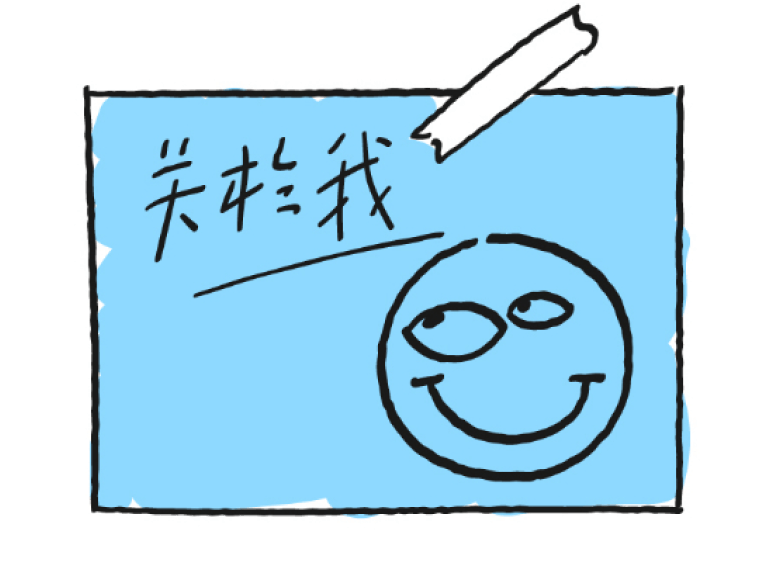
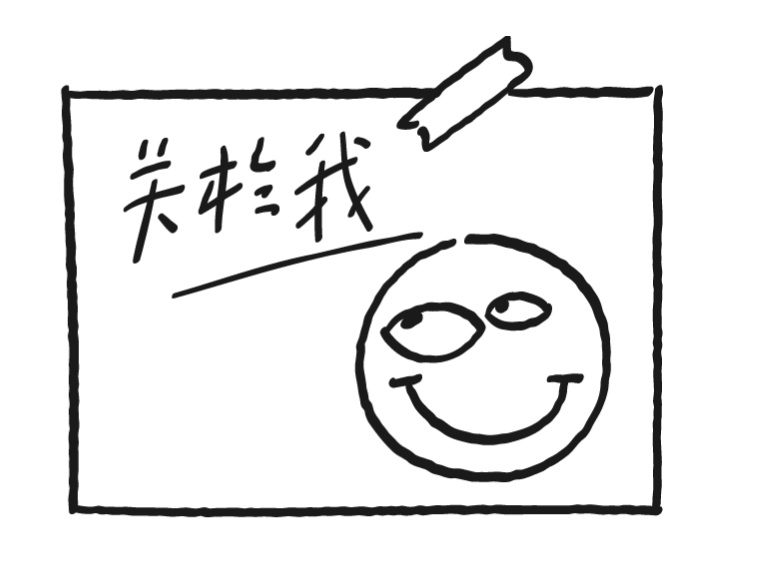
1.添加 google analytics  2.替换首页导航图片 3.更新第一篇文章

diff --git a/docs/.vuepress/.temp/internal/routes.js b/docs/.vuepress/.temp/internal/routes.js
@@ -4,16 +4,16 @@ export const routes = Object.fromEntries([
   ["/", { loader: () => import(/* webpackChunkName: "index.html" */"/Users/yesusu/Desktop/work-space/susu-blog/docs/.vuepress/.temp/pages/index.html.js"), meta: {"title":"耶稣稣的博客"} }],
   ["/about/", { loader: () => import(/* webpackChunkName: "about_index.html" */"/Users/yesusu/Desktop/work-space/susu-blog/docs/.vuepress/.temp/pages/about/index.html.js"), meta: {"_blog":{"author":"","title":"关于我 | 耶稣稣的博客","heroImage":"","description":"这是关于我的描述","date":null,"excerpt":""},"title":"关于我 | 耶稣稣的博客"} }],
   ["/projects/test1/", { loader: () => import(/* webpackChunkName: "projects_test1_index.html" */"/Users/yesusu/Desktop/work-space/susu-blog/docs/.vuepress/.temp/pages/projects/test1/index.html.js"), meta: {"_blog":{"author":"","title":"这是项目test1的标题","heroImage":"https://p3-pc-sign.douyinpic.com/tos-cn-i-0813/cb26932b567b4da5b5c8475fb1a02e7c~tplv-dy-aweme-images-v2:3000:3000:q75.webp?biz_tag=aweme_images&from=327834062&lk3s=138a59ce&s=PackSourceEnum_SEARCH&sc=image&se=false&x-expires=1739905200&x-signature=N%2BogLLZ0hIWCr2eFIHhCbMw3EyE%3D","description":"这是test1的描述，这是test1的描述这是test1的描述这是test1的描述这是test1的描述这是test1的描述这是test1的描述这是test1的描述这是test1的描述这是test1的描述这是test1的描述这是test1的描述这是test1的描述","date":"2025-10-03T00:00:00.000Z","excerpt":""},"title":"这是项目test1的标题"} }],
-  ["/projects/test2/", { loader: () => import(/* webpackChunkName: "projects_test2_index.html" */"/Users/yesusu/Desktop/work-space/susu-blog/docs/.vuepress/.temp/pages/projects/test2/index.html.js"), meta: {"_blog":{"author":"","title":"这是项目test2的标题","heroImage":"https://p3-pc-sign.douyinpic.com/tos-cn-i-0813/cb26932b567b4da5b5c8475fb1a02e7c~tplv-dy-aweme-images-v2:3000:3000:q75.webp?biz_tag=aweme_images&from=327834062&lk3s=138a59ce&s=PackSourceEnum_SEARCH&sc=image&se=false&x-expires=1739905200&x-signature=N%2BogLLZ0hIWCr2eFIHhCbMw3EyE%3D","description":"这是test2的的描述","date":"2025-10-02T00:00:00.000Z","excerpt":""},"title":"这是项目test2的标题"} }],
-  ["/projects/test4/", { loader: () => import(/* webpackChunkName: "projects_test4_index.html" */"/Users/yesusu/Desktop/work-space/susu-blog/docs/.vuepress/.temp/pages/projects/test4/index.html.js"), meta: {"_blog":{"author":"","title":"这是项目test4的标题","heroImage":"https://p3-pc-sign.douyinpic.com/tos-cn-i-0813/cb26932b567b4da5b5c8475fb1a02e7c~tplv-dy-aweme-images-v2:3000:3000:q75.webp?biz_tag=aweme_images&from=327834062&lk3s=138a59ce&s=PackSourceEnum_SEARCH&sc=image&se=false&x-expires=1739905200&x-signature=N%2BogLLZ0hIWCr2eFIHhCbMw3EyE%3D","description":"这是test3的的描述","date":"2025-09-30T00:00:00.000Z","excerpt":""},"title":"这是项目test4的标题"} }],
   ["/projects/test5/", { loader: () => import(/* webpackChunkName: "projects_test5_index.html" */"/Users/yesusu/Desktop/work-space/susu-blog/docs/.vuepress/.temp/pages/projects/test5/index.html.js"), meta: {"_blog":{"author":"","title":"这是项目test5的标题","heroImage":"https://p3-pc-sign.douyinpic.com/tos-cn-i-0813/cb26932b567b4da5b5c8475fb1a02e7c~tplv-dy-aweme-images-v2:3000:3000:q75.webp?biz_tag=aweme_images&from=327834062&lk3s=138a59ce&s=PackSourceEnum_SEARCH&sc=image&se=false&x-expires=1739905200&x-signature=N%2BogLLZ0hIWCr2eFIHhCbMw3EyE%3D","description":"这是test2的的描述","date":"2025-09-27T00:00:00.000Z","excerpt":""},"title":"这是项目test5的标题"} }],
   ["/projects/test3/", { loader: () => import(/* webpackChunkName: "projects_test3_index.html" */"/Users/yesusu/Desktop/work-space/susu-blog/docs/.vuepress/.temp/pages/projects/test3/index.html.js"), meta: {"_blog":{"author":"","title":"这是项目test3的标题","heroImage":"https://p3-pc-sign.douyinpic.com/tos-cn-i-0813/cb26932b567b4da5b5c8475fb1a02e7c~tplv-dy-aweme-images-v2:3000:3000:q75.webp?biz_tag=aweme_images&from=327834062&lk3s=138a59ce&s=PackSourceEnum_SEARCH&sc=image&se=false&x-expires=1739905200&x-signature=N%2BogLLZ0hIWCr2eFIHhCbMw3EyE%3D","description":"这是test3的的描述","date":"2025-10-01T00:00:00.000Z","excerpt":""},"title":"这是项目test3的标题"} }],
-  ["/articles/test1/", { loader: () => import(/* webpackChunkName: "articles_test1_index.html" */"/Users/yesusu/Desktop/work-space/susu-blog/docs/.vuepress/.temp/pages/articles/test1/index.html.js"), meta: {"_blog":{"author":"yesusu1","title":"这是test1的标题","heroImage":"https://steamuserimages-a.akamaihd.net/ugc/2362769341371317445/BD8E2AD582B9B24D516FD1B5D03E05C81A0509E9/?imw=5000&imh=5000&ima=fit&impolicy=Letterbox&imcolor=%23000000&letterbox=false","description":"这是test1的描述，这是test1的描述这是test1的描述这是test1的描述这是test1的描述这是test1的描述这是test1的描述这是test1的描述这是test1的描述这是test1的描述这是test1的描述这是test1的描述这是test1的描述","date":"2025-10-03T00:00:00.000Z","excerpt":""},"title":"这是test1的标题"} }],
+  ["/projects/test4/", { loader: () => import(/* webpackChunkName: "projects_test4_index.html" */"/Users/yesusu/Desktop/work-space/susu-blog/docs/.vuepress/.temp/pages/projects/test4/index.html.js"), meta: {"_blog":{"author":"","title":"这是项目test4的标题","heroImage":"https://p3-pc-sign.douyinpic.com/tos-cn-i-0813/cb26932b567b4da5b5c8475fb1a02e7c~tplv-dy-aweme-images-v2:3000:3000:q75.webp?biz_tag=aweme_images&from=327834062&lk3s=138a59ce&s=PackSourceEnum_SEARCH&sc=image&se=false&x-expires=1739905200&x-signature=N%2BogLLZ0hIWCr2eFIHhCbMw3EyE%3D","description":"这是test3的的描述","date":"2025-09-30T00:00:00.000Z","excerpt":""},"title":"这是项目test4的标题"} }],
+  ["/articles/colors1/", { loader: () => import(/* webpackChunkName: "articles_colors1_index.html" */"/Users/yesusu/Desktop/work-space/susu-blog/docs/.vuepress/.temp/pages/articles/colors1/index.html.js"), meta: {"_blog":{"author":"","title":"产品配色那些事1-学会色彩管理","heroImage":"https://image.yesusu.top/PicGo/color-01.png","description":"本系列文章共分为三个篇章：1.《学会色彩管理》2.《了解选色逻辑》3.《我的配色实践》，笔者将通过三个篇章向大家介绍一些产品配色的基础知识和方法，希望配色时我们有明确的思路和逻辑，帮助我们输出更成熟的配色方案。","date":"2025-02-17T00:00:00.000Z","excerpt":""},"title":"产品配色那些事1-学会色彩管理"} }],
   ["/articles/test3/", { loader: () => import(/* webpackChunkName: "articles_test3_index.html" */"/Users/yesusu/Desktop/work-space/susu-blog/docs/.vuepress/.temp/pages/articles/test3/index.html.js"), meta: {"_blog":{"author":"yesusu","title":"这是test3的标题","heroImage":"https://steamuserimages-a.akamaihd.net/ugc/2362769341371317445/BD8E2AD582B9B24D516FD1B5D03E05C81A0509E9/?imw=5000&imh=5000&ima=fit&impolicy=Letterbox&imcolor=%23000000&letterbox=false","description":"这是test3的的描述","date":"2025-10-01T00:00:00.000Z","excerpt":""},"title":"这是test3的标题"} }],
+  ["/articles/test2/", { loader: () => import(/* webpackChunkName: "articles_test2_index.html" */"/Users/yesusu/Desktop/work-space/susu-blog/docs/.vuepress/.temp/pages/articles/test2/index.html.js"), meta: {"_blog":{"author":"yesusu","title":"这是test2的标题","heroImage":"https://steamuserimages-a.akamaihd.net/ugc/2362769341371317445/BD8E2AD582B9B24D516FD1B5D03E05C81A0509E9/?imw=5000&imh=5000&ima=fit&impolicy=Letterbox&imcolor=%23000000&letterbox=false","description":"这是test2的的描述","date":"2025-10-02T00:00:00.000Z","excerpt":""},"title":"这是test2的标题"} }],
   ["/articles/test4/", { loader: () => import(/* webpackChunkName: "articles_test4_index.html" */"/Users/yesusu/Desktop/work-space/susu-blog/docs/.vuepress/.temp/pages/articles/test4/index.html.js"), meta: {"_blog":{"author":"","title":"这是项目test4的标题","heroImage":"https://p3-pc-sign.douyinpic.com/tos-cn-i-0813/cb26932b567b4da5b5c8475fb1a02e7c~tplv-dy-aweme-images-v2:3000:3000:q75.webp?biz_tag=aweme_images&from=327834062&lk3s=138a59ce&s=PackSourceEnum_SEARCH&sc=image&se=false&x-expires=1739905200&x-signature=N%2BogLLZ0hIWCr2eFIHhCbMw3EyE%3D","description":"这是test3的的描述","date":"2025-09-30T00:00:00.000Z","excerpt":""},"title":"这是项目test4的标题"} }],
   ["/articles/test5/", { loader: () => import(/* webpackChunkName: "articles_test5_index.html" */"/Users/yesusu/Desktop/work-space/susu-blog/docs/.vuepress/.temp/pages/articles/test5/index.html.js"), meta: {"_blog":{"author":"","title":"这是项目test5的标题","heroImage":"https://p3-pc-sign.douyinpic.com/tos-cn-i-0813/cb26932b567b4da5b5c8475fb1a02e7c~tplv-dy-aweme-images-v2:3000:3000:q75.webp?biz_tag=aweme_images&from=327834062&lk3s=138a59ce&s=PackSourceEnum_SEARCH&sc=image&se=false&x-expires=1739905200&x-signature=N%2BogLLZ0hIWCr2eFIHhCbMw3EyE%3D","description":"这是test2的的描述","date":"2025-09-27T00:00:00.000Z","excerpt":""},"title":"这是项目test5的标题"} }],
   ["/articles/test6/", { loader: () => import(/* webpackChunkName: "articles_test6_index.html" */"/Users/yesusu/Desktop/work-space/susu-blog/docs/.vuepress/.temp/pages/articles/test6/index.html.js"), meta: {"_blog":{"author":"","title":"这是项目test6的标题","heroImage":"https://p3-pc-sign.douyinpic.com/tos-cn-i-0813/cb26932b567b4da5b5c8475fb1a02e7c~tplv-dy-aweme-images-v2:3000:3000:q75.webp?biz_tag=aweme_images&from=327834062&lk3s=138a59ce&s=PackSourceEnum_SEARCH&sc=image&se=false&x-expires=1739905200&x-signature=N%2BogLLZ0hIWCr2eFIHhCbMw3EyE%3D","description":"这是test1的描述，这是test1的描述这是test1的描述这是test1的描述这是test1的描述这是test1的描述这是test1的描述这是test1的描述这是test1的描述这是test1的描述这是test1的描述这是test1的描述这是test1的描述","date":"2025-09-25T00:00:00.000Z","excerpt":""},"title":"这是项目test6的标题"} }],
-  ["/articles/test2/", { loader: () => import(/* webpackChunkName: "articles_test2_index.html" */"/Users/yesusu/Desktop/work-space/susu-blog/docs/.vuepress/.temp/pages/articles/test2/index.html.js"), meta: {"_blog":{"author":"yesusu","title":"这是test2的标题","heroImage":"https://steamuserimages-a.akamaihd.net/ugc/2362769341371317445/BD8E2AD582B9B24D516FD1B5D03E05C81A0509E9/?imw=5000&imh=5000&ima=fit&impolicy=Letterbox&imcolor=%23000000&letterbox=false","description":"这是test2的的描述","date":"2025-10-02T00:00:00.000Z","excerpt":""},"title":"这是test2的标题"} }],
+  ["/projects/test2/", { loader: () => import(/* webpackChunkName: "projects_test2_index.html" */"/Users/yesusu/Desktop/work-space/susu-blog/docs/.vuepress/.temp/pages/projects/test2/index.html.js"), meta: {"_blog":{"author":"","title":"这是项目test2的标题","heroImage":"https://p3-pc-sign.douyinpic.com/tos-cn-i-0813/cb26932b567b4da5b5c8475fb1a02e7c~tplv-dy-aweme-images-v2:3000:3000:q75.webp?biz_tag=aweme_images&from=327834062&lk3s=138a59ce&s=PackSourceEnum_SEARCH&sc=image&se=false&x-expires=1739905200&x-signature=N%2BogLLZ0hIWCr2eFIHhCbMw3EyE%3D","description":"这是test2的的描述","date":"2025-10-02T00:00:00.000Z","excerpt":""},"title":"这是项目test2的标题"} }],
   ["/404.html", { loader: () => import(/* webpackChunkName: "404.html" */"/Users/yesusu/Desktop/work-space/susu-blog/docs/.vuepress/.temp/pages/404.html.js"), meta: {"title":""} }],
   ["/articles/", { loader: () => import(/* webpackChunkName: "articles_index.html" */"/Users/yesusu/Desktop/work-space/susu-blog/docs/.vuepress/.temp/pages/articles/index.html.js"), meta: {"title":"文章 | 耶稣稣的博客"} }],
   ["/projects/", { loader: () => import(/* webpackChunkName: "projects_index.html" */"/Users/yesusu/Desktop/work-space/susu-blog/docs/.vuepress/.temp/pages/projects/index.html.js"), meta: {"title":"项目 | 耶稣稣的博客"} }],

diff --git a/docs/.vuepress/.temp/pages/articles/colors1/index.html.vue b/docs/.vuepress/.temp/pages/articles/colors1/index.html.vue
@@ -1,0 +1,64 @@
+<template><div><h1>产品配色那些事1-学会色彩管理</h1>
+<ReadingTime/><!-- 发布于2031-09-12 -->
+<p>本系列文章共分为三个篇章：1.《学会色彩管理》2.《了解选色逻辑》3.《我的配色实践》，笔者将通过三个篇章向大家介绍一些产品配色的基础知识和方法，希望配色时我们有明确的思路和逻辑，帮助我们输出更成熟的配色方案。正式聊产品配色之前，笔者深感有必要专门花一章先来说说“色彩管理”。工作中大家时常会发现设计稿与实际开发的界面色彩不一致，设计稿鲜亮动人，实际界面确色彩暗淡，效果差强人意。导致这个问题的原因便是没有做好色彩管理，要想解决这个问题我们必须先来了解下色彩管理的基础知识。</p>
+<h3>一、色彩空间与色域</h3>
+<p>色彩空间可以简单理解为在人眼所能识别的色彩范围内划定的某一区域，其目的是为了不同设备和介质可以在统一的色彩区域内显示颜色。如设计师耳熟能详的 SRGB，它是惠普和微软公司为显示器和打印机显示统一色彩而划定的色彩区域，我们也称之为 SRGB 色彩空间。色域更多是指这一色彩区域的范围大小，如我们会经常描述某一显示器色域大小为 90%SRGB 或 100%SRGB，意思就是此显示器可以显示 SRGB 色彩空间中 90%或 100%的颜色。不同色彩空间覆盖的色彩区域也存在着大小差异，如 Adobe SRGB 比 SRGB 覆盖的区域大 35%左右，更大的色彩区域表示可以显示更丰富的色彩。</p>
+<p>当前常见的色彩空间有 NTSC、SRGB、Adobe RGB、DCI-P3 和 Display P3，之所以会出现不同色彩空间是因为技术发展和行业需求变化的原因，以下会对这些色彩空间进行简单介绍：</p>
+<h4>1. NTSC</h4>
+<p>上世纪 50 年代彩色电视技术在美国趋于成熟，为了制作标准的彩色电视节目，美国电视委员会制定了彩色电视广播标准（NTSC），其中建立的色彩空间被称为 NTCS 色彩空间。当前 NTSC 色彩空间已经不再使用，更多出现在描述显示设备的参数上，例如我们购买显示器时经常看到色域支持 72%NTSC 这样的描述。</p>
+<p><img src="https://image.yesusu.top/PicGo/color1-02.png" alt=""></p>
+<h4>2. SRGB</h4>
+<p>SRGB 色彩空间是 1996 年惠普和微软开发完成的，其目的是为了建立一种用于显示器、打印机和互联网的通用色彩空间，也是当前主流使用的色彩空间，如 windows 系统默认使用 SRGB，浏览器上我们看到的所有图片和色彩也都是基于 SRGB 渲染的。</p>
+<p><img src="https://image.yesusu.top/PicGo/color1-03.png" alt=""></p>
+<h4>3. Adobe RGB</h4>
+<p>SRGB 是显示器、打印机和互联网的通用色彩空间，但是在彩色印刷行业中，SRGB 覆盖的色域范围比较小，部份色彩在显示设备中不能很好的显示。所以 1998 年 Adobe 公司建立了 Adobe RGB 色彩空间，旨在使计算机显示设备囊括更多的颜色满足印刷行业的需求。</p>
+<p><img src="https://image.yesusu.top/PicGo/color1-04.png" alt=""></p>
+<h4>4. DCI-P3 和 Display P3</h4>
+<p>DCI-P3 是 2005 年美国电影行业推出的一种色彩空间，是数字电影播放设备的色彩标准之一，它的色域面积比 SRGB 大了 25%。2015 年苹果公司推出了广色域屏幕的 iMac 产品，使用了全新的色彩空间，并称之为 Display P3，两种 P3 色彩空间在色域大小上没有区别，只是在一些调教参数上存在差异。</p>
+<p><img src="https://image.yesusu.top/PicGo/color1-05.png" alt=""></p>
+<h3>二、理解色彩管理的逻辑</h3>
+<p>通过以上了解，我们可以尝试回答开篇的问题，为什么会出现实际界面与设计稿色彩不一致的情况？简单来说就是界面显示设备与设计稿显示设备色彩管理不一致导致的。如我们使用苹果电脑制作设计稿，其默认使用的色彩空间是 Display P3，而实际界面的显示设备支持的色彩空间是 SRGB，因为 Display P3 的色域范围远大于 SRGB，这就导致部分颜色无法在 SRGB 的设备上正常显示，所以我们看到的界面和设计稿是存在差异的。以上我们可以发现正确的色彩管理不关乎使用哪种色彩空间，而是整个色彩管理链路是否统一？上述例子，如果实际显示设备支持的是 Display P3 色彩空间，那么你将看到和设计稿完全一致的色彩。</p>
+<p>要做到整个色彩管理链路统一，我们需要清楚了解所有环节，以下将通过图示进行说明：</p>
+<p><img src="https://image.yesusu.top/PicGo/color1-06.png" alt=""></p>
+<ol>
+<li>输出屏幕：了解输出屏幕支持什么样的色彩空间，如苹果的显示屏幕可以覆盖到 100%Display P3，其他显示设备在购买时也会有相关参数描述。</li>
+<li>系统设置：不同系统默认色彩空间可能不同，如 MacOS 默认 Display P3，Windows 默认 SRGB。系统色彩空间也支持不同配置，例如可以将 MacOS 的色彩空间更改为 SRGB。</li>
+<li>制图软件：所有制图软件均可选择不同色彩空间进行工作，不同之处在于系统设置针对整个系统，制图软件只针对制图显示。</li>
+<li>终端屏幕：明确终端屏幕支持什么样的色彩空间，因为最终的设计稿是在终端屏幕上呈现的。</li>
+</ol>
+<p>色彩管理链路是否统一，即以上环节是否使用了统一的色彩空间？而选择什么样的色彩空间需根据终端显示设备决定。笔者调研了不同显示设备色彩空间的支持情况，显示器行业的情况较为复杂，不同厂商不同产品线的支持不尽相同，有 72%NTSC、99%SRGB、90%DCI_P3 等等。安卓阵营情况较好，大部分中高端产品可以支持 100%DCI-P3，部分低端产品支持 72%NTSC 或 100%SRGB。苹果阵营由于自身产品的优势，自 2016 年全线产品开始支持 100%Display P3。</p>
+<p>面对这复杂的情况，我们应该选取什么色彩空间呢？笔者根据实际显示场景给到以下建议：</p>
+<p><img src="https://image.yesusu.top/PicGo/color1-07.png" alt=""></p>
+<h4>1. 浏览器</h4>
+<p>如果你的设计最终在浏览器上显示（如网页设计），那么可以选择 SRGB，上文有提到 SRGB 作为互联网通用的色彩空间，浏览器上的所有色彩都是基于 SRGB 渲染的。</p>
+<h4>2. Windows</h4>
+<p>如果你的设计最终在 Windows 上显示，也可以选择 SRGB 作为工作色彩空间，因为 Windows 默认的色彩空间是 SRGB。</p>
+<h4>3. 安卓设备</h4>
+<p>安卓设备的色域支持情况略显复杂，为了覆盖到不同设备，建议使用 SRGB 作为工作色彩空间。</p>
+<h4>4. 苹果设备</h4>
+<p>苹果设备均支持 100%Display P3，如果你是在为 IOS 和 MacOS 做设计，那么直接选择 Display P3 即可。</p>
+<p>需要注意的是设计项目经常会覆盖多端，为了各端显示统一的色彩，色彩空间的选择可向下兼容。</p>
+<h3>三. 如何进行软件设置</h3>
+<h4>1. Sketch</h4>
+<p>Sketch 为我们提供了两种色彩管理方式：</p>
+<p>①全局预设：</p>
+<p>可在 Sketch 的 Preferences 中找到 Canvas 选项，然后在 Color Profile 中选择要使用的色彩空间，设置后我们新建的所有文件都将采用新的色彩空间。</p>
+<p><img src="https://image.yesusu.top/PicGo/color1-08.png" alt=""></p>
+<p>②文件设置：</p>
+<p>可在 Sketch 的 File 菜单中找到 Document Setting 选项，点击后在 Color Profile 中选择要使用的色彩空间，该设置只影响当前文件。</p>
+<p><img src="https://image.yesusu.top/PicGo/color1-09.png" alt=""></p>
+<p>需要注意的是当我们打开 Color Profile 下拉框后，除 SRGB 和 Display P3 选项外，还有一个叫做 Unmanaged 的选项，翻译过来的意思是无托管，选择该选项即为使用系统色彩管理方案。如需要将工作色彩空间调整为 SRGB，我们可以直接在 Color Profile 下拉框中选择 SRGB，也可以选择 Unmanaged，然后将系统色彩管理方案设置为 SRGB 即可。</p>
+<h4>2. Figma</h4>
+<p>Figma 的 Color Profile 提供了 Unmanaged 和 SRGB 两种选项，即只能使用系统色彩管理方案和 SRGB 色彩空间，且仅支持在客户端版本中进行选择。浏览器版本不支持色彩管理，默认使用 SRGB 色彩空间，原因上文已提及到浏览器上的色彩是基于 SRGB 进行渲染的。</p>
+<p><img src="https://image.yesusu.top/PicGo/color1-10.png" alt=""></p>
+<h4>3. Photoshop</h4>
+<p>当我们在 Photoshop 中新建文件时可看到“高级选项”下的“色彩配置文件”，点击此处可选择想要使用的色彩空间。除此之外还可以在“编辑”菜单中的“色彩设置”选项中找到“工作空间”模块，在“RGB”选项中选择需要使用的色彩空间，该设置作为一种常用的工作空间存在。完成设置后我们便可以在新建文件时，选择“工作中的色彩空间”进行使用。</p>
+<p><img src="https://image.yesusu.top/PicGo/color1-11.png" alt=""></p>
+<p><img src="https://image.yesusu.top/PicGo/color1-12.png" alt=""></p>
+<h4>4. After Effects</h4>
+<p>在 AE 中我们可以在“文件”菜单下找到“项目设置”，点击后在“颜色”菜单下找到“工作空间”选项，此处可设置想要使用的颜色空间。</p>
+<p><img src="https://image.yesusu.top/PicGo/color1-13.png" alt=""></p>
+<p>最后色彩管理属于比较复杂的知识模块，本篇文章介绍的并不全面，只是将和我们工作相关的部份进行了梳理。希望这篇文章可以帮助大家明白色彩管理背后的逻辑，学会正确的色彩管理。</p>
+</div></template>
+
+

diff --git a/docs/.vuepress/.temp/pages/articles/test6/index.html.js b/docs/.vuepress/.temp/pages/articles/test6/index.html.js
@@ -1,5 +1,5 @@
 import comp from "/Users/yesusu/Desktop/work-space/susu-blog/docs/.vuepress/.temp/pages/articles/test6/index.html.vue"
-const data = JSON.parse("{\"path\":\"/articles/test6/\",\"title\":\"这是项目test6的标题\",\"lang\":\"zh-CN\",\"frontmatter\":{\"title\":\"这是项目test6的标题\",\"description\":\"这是test1的描述，这是test1的描述这是test1的描述这是test1的描述这是test1的描述这是test1的描述这是test1的描述这是test1的描述这是test1的描述这是test1的描述这是test1的描述这是test1的描述这是test1的描述\",\"date\":\"2025-09-25T00:00:00.000Z\",\"heroImage\":\"https://p3-pc-sign.douyinpic.com/tos-cn-i-0813/cb26932b567b4da5b5c8475fb1a02e7c~tplv-dy-aweme-images-v2:3000:3000:q75.webp?biz_tag=aweme_images&from=327834062&lk3s=138a59ce&s=PackSourceEnum_SEARCH&sc=image&se=false&x-expires=1739905200&x-signature=N%2BogLLZ0hIWCr2eFIHhCbMw3EyE%3D\"},\"headers\":[],\"git\":{\"updatedTime\":1739504496000,\"contributors\":[{\"name\":\"yesusu\",\"username\":\"yesusu\",\"email\":\"yepan1749@gmail.com\",\"commits\":2,\"url\":\"https://github.com/yesusu\"},{\"name\":\"ye-susu\",\"username\":\"ye-susu\",\"email\":\"yepan1749@gmail.com\",\"commits\":1,\"url\":\"https://github.com/ye-susu\"}]},\"filePathRelative\":\"articles/test6/README.md\",\"readingTime\":{\"minutes\":2.74,\"words\":686}}")
+const data = JSON.parse("{\"path\":\"/articles/test6/\",\"title\":\"这是项目test6的标题\",\"lang\":\"zh-CN\",\"frontmatter\":{\"title\":\"这是项目test6的标题\",\"description\":\"这是test1的描述，这是test1的描述这是test1的描述这是test1的描述这是test1的描述这是test1的描述这是test1的描述这是test1的描述这是test1的描述这是test1的描述这是test1的描述这是test1的描述这是test1的描述\",\"date\":\"2025-09-25T00:00:00.000Z\",\"heroImage\":\"https://p3-pc-sign.douyinpic.com/tos-cn-i-0813/cb26932b567b4da5b5c8475fb1a02e7c~tplv-dy-aweme-images-v2:3000:3000:q75.webp?biz_tag=aweme_images&from=327834062&lk3s=138a59ce&s=PackSourceEnum_SEARCH&sc=image&se=false&x-expires=1739905200&x-signature=N%2BogLLZ0hIWCr2eFIHhCbMw3EyE%3D\"},\"headers\":[],\"git\":{\"updatedTime\":1739504496000,\"contributors\":[{\"name\":\"yesusu\",\"username\":\"yesusu\",\"email\":\"yepan1749@gmail.com\",\"commits\":2,\"url\":\"https://github.com/yesusu\"},{\"name\":\"ye-susu\",\"username\":\"ye-susu\",\"email\":\"yepan1749@gmail.com\",\"commits\":1,\"url\":\"https://github.com/ye-susu\"}]},\"filePathRelative\":\"articles/test6/README.md\",\"readingTime\":{\"minutes\":3.43,\"words\":686}}")
 export { comp, data }
 
 if (import.meta.webpackHot) {

diff --git a/docs/.vuepress/.temp/pages/projects/test1/index.html.js b/docs/.vuepress/.temp/pages/projects/test1/index.html.js
@@ -1,5 +1,5 @@
 import comp from "/Users/yesusu/Desktop/work-space/susu-blog/docs/.vuepress/.temp/pages/projects/test1/index.html.vue"
-const data = JSON.parse("{\"path\":\"/projects/test1/\",\"title\":\"这是项目test1的标题\",\"lang\":\"zh-CN\",\"frontmatter\":{\"title\":\"这是项目test1的标题\",\"description\":\"这是test1的描述，这是test1的描述这是test1的描述这是test1的描述这是test1的描述这是test1的描述这是test1的描述这是test1的描述这是test1的描述这是test1的描述这是test1的描述这是test1的描述这是test1的描述\",\"date\":\"2025-10-03T00:00:00.000Z\",\"heroImage\":\"https://p3-pc-sign.douyinpic.com/tos-cn-i-0813/cb26932b567b4da5b5c8475fb1a02e7c~tplv-dy-aweme-images-v2:3000:3000:q75.webp?biz_tag=aweme_images&from=327834062&lk3s=138a59ce&s=PackSourceEnum_SEARCH&sc=image&se=false&x-expires=1739905200&x-signature=N%2BogLLZ0hIWCr2eFIHhCbMw3EyE%3D\"},\"headers\":[],\"git\":{\"updatedTime\":1739504496000,\"contributors\":[{\"name\":\"yesusu\",\"username\":\"yesusu\",\"email\":\"yepan1749@gmail.com\",\"commits\":2,\"url\":\"https://github.com/yesusu\"},{\"name\":\"ye-susu\",\"username\":\"ye-susu\",\"email\":\"yepan1749@gmail.com\",\"commits\":1,\"url\":\"https://github.com/ye-susu\"}]},\"filePathRelative\":\"projects/test1/README.md\",\"readingTime\":{\"minutes\":2.74,\"words\":686}}")
+const data = JSON.parse("{\"path\":\"/projects/test1/\",\"title\":\"这是项目test1的标题\",\"lang\":\"zh-CN\",\"frontmatter\":{\"title\":\"这是项目test1的标题\",\"description\":\"这是test1的描述，这是test1的描述这是test1的描述这是test1的描述这是test1的描述这是test1的描述这是test1的描述这是test1的描述这是test1的描述这是test1的描述这是test1的描述这是test1的描述这是test1的描述\",\"date\":\"2025-10-03T00:00:00.000Z\",\"heroImage\":\"https://p3-pc-sign.douyinpic.com/tos-cn-i-0813/cb26932b567b4da5b5c8475fb1a02e7c~tplv-dy-aweme-images-v2:3000:3000:q75.webp?biz_tag=aweme_images&from=327834062&lk3s=138a59ce&s=PackSourceEnum_SEARCH&sc=image&se=false&x-expires=1739905200&x-signature=N%2BogLLZ0hIWCr2eFIHhCbMw3EyE%3D\"},\"headers\":[],\"git\":{\"updatedTime\":1739504496000,\"contributors\":[{\"name\":\"yesusu\",\"username\":\"yesusu\",\"email\":\"yepan1749@gmail.com\",\"commits\":2,\"url\":\"https://github.com/yesusu\"},{\"name\":\"ye-susu\",\"username\":\"ye-susu\",\"email\":\"yepan1749@gmail.com\",\"commits\":1,\"url\":\"https://github.com/ye-susu\"}]},\"filePathRelative\":\"projects/test1/README.md\",\"readingTime\":{\"minutes\":3.43,\"words\":686}}")
 export { comp, data }
 
 if (import.meta.webpackHot) {

diff --git a/docs/.vuepress/.temp/pages/articles/test4/index.html.js b/docs/.vuepress/.temp/pages/articles/test4/index.html.js
@@ -1,5 +1,5 @@
 import comp from "/Users/yesusu/Desktop/work-space/susu-blog/docs/.vuepress/.temp/pages/articles/test4/index.html.vue"
-const data = JSON.parse("{\"path\":\"/articles/test4/\",\"title\":\"这是项目test4的标题\",\"lang\":\"zh-CN\",\"frontmatter\":{\"title\":\"这是项目test4的标题\",\"description\":\"这是test3的的描述\",\"date\":\"2025-09-30T00:00:00.000Z\",\"heroImage\":\"https://p3-pc-sign.douyinpic.com/tos-cn-i-0813/cb26932b567b4da5b5c8475fb1a02e7c~tplv-dy-aweme-images-v2:3000:3000:q75.webp?biz_tag=aweme_images&from=327834062&lk3s=138a59ce&s=PackSourceEnum_SEARCH&sc=image&se=false&x-expires=1739905200&x-signature=N%2BogLLZ0hIWCr2eFIHhCbMw3EyE%3D\"},\"headers\":[],\"git\":{\"updatedTime\":1739504496000,\"contributors\":[{\"name\":\"yesusu\",\"username\":\"yesusu\",\"email\":\"yepan1749@gmail.com\",\"commits\":2,\"url\":\"https://github.com/yesusu\"},{\"name\":\"ye-susu\",\"username\":\"ye-susu\",\"email\":\"yepan1749@gmail.com\",\"commits\":1,\"url\":\"https://github.com/ye-susu\"}]},\"filePathRelative\":\"articles/test4/README.md\",\"readingTime\":{\"minutes\":0.26,\"words\":66}}")
+const data = JSON.parse("{\"path\":\"/articles/test4/\",\"title\":\"这是项目test4的标题\",\"lang\":\"zh-CN\",\"frontmatter\":{\"title\":\"这是项目test4的标题\",\"description\":\"这是test3的的描述\",\"date\":\"2025-09-30T00:00:00.000Z\",\"heroImage\":\"https://p3-pc-sign.douyinpic.com/tos-cn-i-0813/cb26932b567b4da5b5c8475fb1a02e7c~tplv-dy-aweme-images-v2:3000:3000:q75.webp?biz_tag=aweme_images&from=327834062&lk3s=138a59ce&s=PackSourceEnum_SEARCH&sc=image&se=false&x-expires=1739905200&x-signature=N%2BogLLZ0hIWCr2eFIHhCbMw3EyE%3D\"},\"headers\":[],\"git\":{\"updatedTime\":1739504496000,\"contributors\":[{\"name\":\"yesusu\",\"username\":\"yesusu\",\"email\":\"yepan1749@gmail.com\",\"commits\":2,\"url\":\"https://github.com/yesusu\"},{\"name\":\"ye-susu\",\"username\":\"ye-susu\",\"email\":\"yepan1749@gmail.com\",\"commits\":1,\"url\":\"https://github.com/ye-susu\"}]},\"filePathRelative\":\"articles/test4/README.md\",\"readingTime\":{\"minutes\":0.33,\"words\":66}}")
 export { comp, data }
 
 if (import.meta.webpackHot) {

diff --git a/docs/.vuepress/.temp/pages/articles/test5/index.html.js b/docs/.vuepress/.temp/pages/articles/test5/index.html.js
@@ -1,5 +1,5 @@
 import comp from "/Users/yesusu/Desktop/work-space/susu-blog/docs/.vuepress/.temp/pages/articles/test5/index.html.vue"
-const data = JSON.parse("{\"path\":\"/articles/test5/\",\"title\":\"这是项目test5的标题\",\"lang\":\"zh-CN\",\"frontmatter\":{\"title\":\"这是项目test5的标题\",\"description\":\"这是test2的的描述\",\"date\":\"2025-09-27T00:00:00.000Z\",\"heroImage\":\"https://p3-pc-sign.douyinpic.com/tos-cn-i-0813/cb26932b567b4da5b5c8475fb1a02e7c~tplv-dy-aweme-images-v2:3000:3000:q75.webp?biz_tag=aweme_images&from=327834062&lk3s=138a59ce&s=PackSourceEnum_SEARCH&sc=image&se=false&x-expires=1739905200&x-signature=N%2BogLLZ0hIWCr2eFIHhCbMw3EyE%3D\"},\"headers\":[],\"git\":{\"updatedTime\":1739504496000,\"contributors\":[{\"name\":\"yesusu\",\"username\":\"yesusu\",\"email\":\"yepan1749@gmail.com\",\"commits\":2,\"url\":\"https://github.com/yesusu\"},{\"name\":\"ye-susu\",\"username\":\"ye-susu\",\"email\":\"yepan1749@gmail.com\",\"commits\":1,\"url\":\"https://github.com/ye-susu\"}]},\"filePathRelative\":\"articles/test5/README.md\",\"readingTime\":{\"minutes\":0.26,\"words\":66}}")
+const data = JSON.parse("{\"path\":\"/articles/test5/\",\"title\":\"这是项目test5的标题\",\"lang\":\"zh-CN\",\"frontmatter\":{\"title\":\"这是项目test5的标题\",\"description\":\"这是test2的的描述\",\"date\":\"2025-09-27T00:00:00.000Z\",\"heroImage\":\"https://p3-pc-sign.douyinpic.com/tos-cn-i-0813/cb26932b567b4da5b5c8475fb1a02e7c~tplv-dy-aweme-images-v2:3000:3000:q75.webp?biz_tag=aweme_images&from=327834062&lk3s=138a59ce&s=PackSourceEnum_SEARCH&sc=image&se=false&x-expires=1739905200&x-signature=N%2BogLLZ0hIWCr2eFIHhCbMw3EyE%3D\"},\"headers\":[],\"git\":{\"updatedTime\":1739504496000,\"contributors\":[{\"name\":\"yesusu\",\"username\":\"yesusu\",\"email\":\"yepan1749@gmail.com\",\"commits\":2,\"url\":\"https://github.com/yesusu\"},{\"name\":\"ye-susu\",\"username\":\"ye-susu\",\"email\":\"yepan1749@gmail.com\",\"commits\":1,\"url\":\"https://github.com/ye-susu\"}]},\"filePathRelative\":\"articles/test5/README.md\",\"readingTime\":{\"minutes\":0.33,\"words\":66}}")
 export { comp, data }
 
 if (import.meta.webpackHot) {

diff --git a/docs/.vuepress/.temp/pages/projects/test2/index.html.js b/docs/.vuepress/.temp/pages/projects/test2/index.html.js
@@ -1,5 +1,5 @@
 import comp from "/Users/yesusu/Desktop/work-space/susu-blog/docs/.vuepress/.temp/pages/projects/test2/index.html.vue"
-const data = JSON.parse("{\"path\":\"/projects/test2/\",\"title\":\"这是项目test2的标题\",\"lang\":\"zh-CN\",\"frontmatter\":{\"title\":\"这是项目test2的标题\",\"description\":\"这是test2的的描述\",\"date\":\"2025-10-02T00:00:00.000Z\",\"heroImage\":\"https://p3-pc-sign.douyinpic.com/tos-cn-i-0813/cb26932b567b4da5b5c8475fb1a02e7c~tplv-dy-aweme-images-v2:3000:3000:q75.webp?biz_tag=aweme_images&from=327834062&lk3s=138a59ce&s=PackSourceEnum_SEARCH&sc=image&se=false&x-expires=1739905200&x-signature=N%2BogLLZ0hIWCr2eFIHhCbMw3EyE%3D\"},\"headers\":[],\"git\":{\"updatedTime\":1739504496000,\"contributors\":[{\"name\":\"yesusu\",\"username\":\"yesusu\",\"email\":\"yepan1749@gmail.com\",\"commits\":2,\"url\":\"https://github.com/yesusu\"},{\"name\":\"ye-susu\",\"username\":\"ye-susu\",\"email\":\"yepan1749@gmail.com\",\"commits\":1,\"url\":\"https://github.com/ye-susu\"}]},\"filePathRelative\":\"projects/test2/README.md\",\"readingTime\":{\"minutes\":0.26,\"words\":66}}")
+const data = JSON.parse("{\"path\":\"/projects/test2/\",\"title\":\"这是项目test2的标题\",\"lang\":\"zh-CN\",\"frontmatter\":{\"title\":\"这是项目test2的标题\",\"description\":\"这是test2的的描述\",\"date\":\"2025-10-02T00:00:00.000Z\",\"heroImage\":\"https://p3-pc-sign.douyinpic.com/tos-cn-i-0813/cb26932b567b4da5b5c8475fb1a02e7c~tplv-dy-aweme-images-v2:3000:3000:q75.webp?biz_tag=aweme_images&from=327834062&lk3s=138a59ce&s=PackSourceEnum_SEARCH&sc=image&se=false&x-expires=1739905200&x-signature=N%2BogLLZ0hIWCr2eFIHhCbMw3EyE%3D\"},\"headers\":[],\"git\":{\"updatedTime\":1739504496000,\"contributors\":[{\"name\":\"yesusu\",\"username\":\"yesusu\",\"email\":\"yepan1749@gmail.com\",\"commits\":2,\"url\":\"https://github.com/yesusu\"},{\"name\":\"ye-susu\",\"username\":\"ye-susu\",\"email\":\"yepan1749@gmail.com\",\"commits\":1,\"url\":\"https://github.com/ye-susu\"}]},\"filePathRelative\":\"projects/test2/README.md\",\"readingTime\":{\"minutes\":0.33,\"words\":66}}")
 export { comp, data }
 
 if (import.meta.webpackHot) {

diff --git a/docs/.vuepress/.temp/pages/projects/test3/index.html.js b/docs/.vuepress/.temp/pages/projects/test3/index.html.js
@@ -1,5 +1,5 @@
 import comp from "/Users/yesusu/Desktop/work-space/susu-blog/docs/.vuepress/.temp/pages/projects/test3/index.html.vue"
-const data = JSON.parse("{\"path\":\"/projects/test3/\",\"title\":\"这是项目test3的标题\",\"lang\":\"zh-CN\",\"frontmatter\":{\"title\":\"这是项目test3的标题\",\"description\":\"这是test3的的描述\",\"date\":\"2025-10-01T00:00:00.000Z\",\"heroImage\":\"https://p3-pc-sign.douyinpic.com/tos-cn-i-0813/cb26932b567b4da5b5c8475fb1a02e7c~tplv-dy-aweme-images-v2:3000:3000:q75.webp?biz_tag=aweme_images&from=327834062&lk3s=138a59ce&s=PackSourceEnum_SEARCH&sc=image&se=false&x-expires=1739905200&x-signature=N%2BogLLZ0hIWCr2eFIHhCbMw3EyE%3D\"},\"headers\":[],\"git\":{\"updatedTime\":1739504496000,\"contributors\":[{\"name\":\"yesusu\",\"username\":\"yesusu\",\"email\":\"yepan1749@gmail.com\",\"commits\":2,\"url\":\"https://github.com/yesusu\"},{\"name\":\"ye-susu\",\"username\":\"ye-susu\",\"email\":\"yepan1749@gmail.com\",\"commits\":1,\"url\":\"https://github.com/ye-susu\"}]},\"filePathRelative\":\"projects/test3/README.md\",\"readingTime\":{\"minutes\":0.26,\"words\":66}}")
+const data = JSON.parse("{\"path\":\"/projects/test3/\",\"title\":\"这是项目test3的标题\",\"lang\":\"zh-CN\",\"frontmatter\":{\"title\":\"这是项目test3的标题\",\"description\":\"这是test3的的描述\",\"date\":\"2025-10-01T00:00:00.000Z\",\"heroImage\":\"https://p3-pc-sign.douyinpic.com/tos-cn-i-0813/cb26932b567b4da5b5c8475fb1a02e7c~tplv-dy-aweme-images-v2:3000:3000:q75.webp?biz_tag=aweme_images&from=327834062&lk3s=138a59ce&s=PackSourceEnum_SEARCH&sc=image&se=false&x-expires=1739905200&x-signature=N%2BogLLZ0hIWCr2eFIHhCbMw3EyE%3D\"},\"headers\":[],\"git\":{\"updatedTime\":1739504496000,\"contributors\":[{\"name\":\"yesusu\",\"username\":\"yesusu\",\"email\":\"yepan1749@gmail.com\",\"commits\":2,\"url\":\"https://github.com/yesusu\"},{\"name\":\"ye-susu\",\"username\":\"ye-susu\",\"email\":\"yepan1749@gmail.com\",\"commits\":1,\"url\":\"https://github.com/ye-susu\"}]},\"filePathRelative\":\"projects/test3/README.md\",\"readingTime\":{\"minutes\":0.33,\"words\":66}}")
 export { comp, data }
 
 if (import.meta.webpackHot) {

diff --git a/docs/.vuepress/.temp/pages/projects/test4/index.html.js b/docs/.vuepress/.temp/pages/projects/test4/index.html.js
@@ -1,5 +1,5 @@
 import comp from "/Users/yesusu/Desktop/work-space/susu-blog/docs/.vuepress/.temp/pages/projects/test4/index.html.vue"
-const data = JSON.parse("{\"path\":\"/projects/test4/\",\"title\":\"这是项目test4的标题\",\"lang\":\"zh-CN\",\"frontmatter\":{\"title\":\"这是项目test4的标题\",\"description\":\"这是test3的的描述\",\"date\":\"2025-09-30T00:00:00.000Z\",\"heroImage\":\"https://p3-pc-sign.douyinpic.com/tos-cn-i-0813/cb26932b567b4da5b5c8475fb1a02e7c~tplv-dy-aweme-images-v2:3000:3000:q75.webp?biz_tag=aweme_images&from=327834062&lk3s=138a59ce&s=PackSourceEnum_SEARCH&sc=image&se=false&x-expires=1739905200&x-signature=N%2BogLLZ0hIWCr2eFIHhCbMw3EyE%3D\"},\"headers\":[],\"git\":{\"updatedTime\":1739504496000,\"contributors\":[{\"name\":\"yesusu\",\"username\":\"yesusu\",\"email\":\"yepan1749@gmail.com\",\"commits\":2,\"url\":\"https://github.com/yesusu\"},{\"name\":\"ye-susu\",\"username\":\"ye-susu\",\"email\":\"yepan1749@gmail.com\",\"commits\":1,\"url\":\"https://github.com/ye-susu\"}]},\"filePathRelative\":\"projects/test4/README.md\",\"readingTime\":{\"minutes\":0.26,\"words\":66}}")
+const data = JSON.parse("{\"path\":\"/projects/test4/\",\"title\":\"这是项目test4的标题\",\"lang\":\"zh-CN\",\"frontmatter\":{\"title\":\"这是项目test4的标题\",\"description\":\"这是test3的的描述\",\"date\":\"2025-09-30T00:00:00.000Z\",\"heroImage\":\"https://p3-pc-sign.douyinpic.com/tos-cn-i-0813/cb26932b567b4da5b5c8475fb1a02e7c~tplv-dy-aweme-images-v2:3000:3000:q75.webp?biz_tag=aweme_images&from=327834062&lk3s=138a59ce&s=PackSourceEnum_SEARCH&sc=image&se=false&x-expires=1739905200&x-signature=N%2BogLLZ0hIWCr2eFIHhCbMw3EyE%3D\"},\"headers\":[],\"git\":{\"updatedTime\":1739504496000,\"contributors\":[{\"name\":\"yesusu\",\"username\":\"yesusu\",\"email\":\"yepan1749@gmail.com\",\"commits\":2,\"url\":\"https://github.com/yesusu\"},{\"name\":\"ye-susu\",\"username\":\"ye-susu\",\"email\":\"yepan1749@gmail.com\",\"commits\":1,\"url\":\"https://github.com/ye-susu\"}]},\"filePathRelative\":\"projects/test4/README.md\",\"readingTime\":{\"minutes\":0.33,\"words\":66}}")
 export { comp, data }
 
 if (import.meta.webpackHot) {

diff --git a/docs/.vuepress/.temp/pages/projects/test5/index.html.js b/docs/.vuepress/.temp/pages/projects/test5/index.html.js
@@ -1,5 +1,5 @@
 import comp from "/Users/yesusu/Desktop/work-space/susu-blog/docs/.vuepress/.temp/pages/projects/test5/index.html.vue"
-const data = JSON.parse("{\"path\":\"/projects/test5/\",\"title\":\"这是项目test5的标题\",\"lang\":\"zh-CN\",\"frontmatter\":{\"title\":\"这是项目test5的标题\",\"description\":\"这是test2的的描述\",\"date\":\"2025-09-27T00:00:00.000Z\",\"heroImage\":\"https://p3-pc-sign.douyinpic.com/tos-cn-i-0813/cb26932b567b4da5b5c8475fb1a02e7c~tplv-dy-aweme-images-v2:3000:3000:q75.webp?biz_tag=aweme_images&from=327834062&lk3s=138a59ce&s=PackSourceEnum_SEARCH&sc=image&se=false&x-expires=1739905200&x-signature=N%2BogLLZ0hIWCr2eFIHhCbMw3EyE%3D\"},\"headers\":[],\"git\":{\"updatedTime\":1739504496000,\"contributors\":[{\"name\":\"yesusu\",\"username\":\"yesusu\",\"email\":\"yepan1749@gmail.com\",\"commits\":2,\"url\":\"https://github.com/yesusu\"},{\"name\":\"ye-susu\",\"username\":\"ye-susu\",\"email\":\"yepan1749@gmail.com\",\"commits\":1,\"url\":\"https://github.com/ye-susu\"}]},\"filePathRelative\":\"projects/test5/README.md\",\"readingTime\":{\"minutes\":0.26,\"words\":66}}")
+const data = JSON.parse("{\"path\":\"/projects/test5/\",\"title\":\"这是项目test5的标题\",\"lang\":\"zh-CN\",\"frontmatter\":{\"title\":\"这是项目test5的标题\",\"description\":\"这是test2的的描述\",\"date\":\"2025-09-27T00:00:00.000Z\",\"heroImage\":\"https://p3-pc-sign.douyinpic.com/tos-cn-i-0813/cb26932b567b4da5b5c8475fb1a02e7c~tplv-dy-aweme-images-v2:3000:3000:q75.webp?biz_tag=aweme_images&from=327834062&lk3s=138a59ce&s=PackSourceEnum_SEARCH&sc=image&se=false&x-expires=1739905200&x-signature=N%2BogLLZ0hIWCr2eFIHhCbMw3EyE%3D\"},\"headers\":[],\"git\":{\"updatedTime\":1739504496000,\"contributors\":[{\"name\":\"yesusu\",\"username\":\"yesusu\",\"email\":\"yepan1749@gmail.com\",\"commits\":2,\"url\":\"https://github.com/yesusu\"},{\"name\":\"ye-susu\",\"username\":\"ye-susu\",\"email\":\"yepan1749@gmail.com\",\"commits\":1,\"url\":\"https://github.com/ye-susu\"}]},\"filePathRelative\":\"projects/test5/README.md\",\"readingTime\":{\"minutes\":0.33,\"words\":66}}")
 export { comp, data }
 
 if (import.meta.webpackHot) {

diff --git a/docs/.vuepress/.temp/pages/articles/test2/index.html.js b/docs/.vuepress/.temp/pages/articles/test2/index.html.js
@@ -1,5 +1,5 @@
 import comp from "/Users/yesusu/Desktop/work-space/susu-blog/docs/.vuepress/.temp/pages/articles/test2/index.html.vue"
-const data = JSON.parse("{\"path\":\"/articles/test2/\",\"title\":\"这是test2的标题\",\"lang\":\"zh-CN\",\"frontmatter\":{\"title\":\"这是test2的标题\",\"description\":\"这是test2的的描述\",\"date\":\"2025-10-02T00:00:00.000Z\",\"heroImage\":\"https://steamuserimages-a.akamaihd.net/ugc/2362769341371317445/BD8E2AD582B9B24D516FD1B5D03E05C81A0509E9/?imw=5000&imh=5000&ima=fit&impolicy=Letterbox&imcolor=%23000000&letterbox=false\",\"author\":\"yesusu\"},\"headers\":[],\"git\":{\"updatedTime\":1739504496000,\"contributors\":[{\"name\":\"yesusu\",\"username\":\"yesusu\",\"email\":\"yepan1749@gmail.com\",\"commits\":2,\"url\":\"https://github.com/yesusu\"},{\"name\":\"ye-susu\",\"username\":\"ye-susu\",\"email\":\"yepan1749@gmail.com\",\"commits\":1,\"url\":\"https://github.com/ye-susu\"}]},\"filePathRelative\":\"articles/test2/README.md\",\"readingTime\":{\"minutes\":0.18,\"words\":46}}")
+const data = JSON.parse("{\"path\":\"/articles/test2/\",\"title\":\"这是test2的标题\",\"lang\":\"zh-CN\",\"frontmatter\":{\"title\":\"这是test2的标题\",\"description\":\"这是test2的的描述\",\"date\":\"2025-10-02T00:00:00.000Z\",\"heroImage\":\"https://steamuserimages-a.akamaihd.net/ugc/2362769341371317445/BD8E2AD582B9B24D516FD1B5D03E05C81A0509E9/?imw=5000&imh=5000&ima=fit&impolicy=Letterbox&imcolor=%23000000&letterbox=false\",\"author\":\"yesusu\"},\"headers\":[],\"git\":{\"updatedTime\":1739504496000,\"contributors\":[{\"name\":\"yesusu\",\"username\":\"yesusu\",\"email\":\"yepan1749@gmail.com\",\"commits\":2,\"url\":\"https://github.com/yesusu\"},{\"name\":\"ye-susu\",\"username\":\"ye-susu\",\"email\":\"yepan1749@gmail.com\",\"commits\":1,\"url\":\"https://github.com/ye-susu\"}]},\"filePathRelative\":\"articles/test2/README.md\",\"readingTime\":{\"minutes\":0.23,\"words\":46}}")
 export { comp, data }
 
 if (import.meta.webpackHot) {

diff --git a/docs/.vuepress/.temp/pages/articles/test3/index.html.js b/docs/.vuepress/.temp/pages/articles/test3/index.html.js
@@ -1,5 +1,5 @@
 import comp from "/Users/yesusu/Desktop/work-space/susu-blog/docs/.vuepress/.temp/pages/articles/test3/index.html.vue"
-const data = JSON.parse("{\"path\":\"/articles/test3/\",\"title\":\"这是test3的标题\",\"lang\":\"zh-CN\",\"frontmatter\":{\"title\":\"这是test3的标题\",\"description\":\"这是test3的的描述\",\"date\":\"2025-10-01T00:00:00.000Z\",\"heroImage\":\"https://steamuserimages-a.akamaihd.net/ugc/2362769341371317445/BD8E2AD582B9B24D516FD1B5D03E05C81A0509E9/?imw=5000&imh=5000&ima=fit&impolicy=Letterbox&imcolor=%23000000&letterbox=false\",\"author\":\"yesusu\"},\"headers\":[],\"git\":{\"updatedTime\":1739504496000,\"contributors\":[{\"name\":\"yesusu\",\"username\":\"yesusu\",\"email\":\"yepan1749@gmail.com\",\"commits\":2,\"url\":\"https://github.com/yesusu\"},{\"name\":\"ye-susu\",\"username\":\"ye-susu\",\"email\":\"yepan1749@gmail.com\",\"commits\":1,\"url\":\"https://github.com/ye-susu\"}]},\"filePathRelative\":\"articles/test3/README.md\",\"readingTime\":{\"minutes\":0.18,\"words\":46}}")
+const data = JSON.parse("{\"path\":\"/articles/test3/\",\"title\":\"这是test3的标题\",\"lang\":\"zh-CN\",\"frontmatter\":{\"title\":\"这是test3的标题\",\"description\":\"这是test3的的描述\",\"date\":\"2025-10-01T00:00:00.000Z\",\"heroImage\":\"https://steamuserimages-a.akamaihd.net/ugc/2362769341371317445/BD8E2AD582B9B24D516FD1B5D03E05C81A0509E9/?imw=5000&imh=5000&ima=fit&impolicy=Letterbox&imcolor=%23000000&letterbox=false\",\"author\":\"yesusu\"},\"headers\":[],\"git\":{\"updatedTime\":1739504496000,\"contributors\":[{\"name\":\"yesusu\",\"username\":\"yesusu\",\"email\":\"yepan1749@gmail.com\",\"commits\":2,\"url\":\"https://github.com/yesusu\"},{\"name\":\"ye-susu\",\"username\":\"ye-susu\",\"email\":\"yepan1749@gmail.com\",\"commits\":1,\"url\":\"https://github.com/ye-susu\"}]},\"filePathRelative\":\"articles/test3/README.md\",\"readingTime\":{\"minutes\":0.23,\"words\":46}}")
 export { comp, data }
 
 if (import.meta.webpackHot) {
